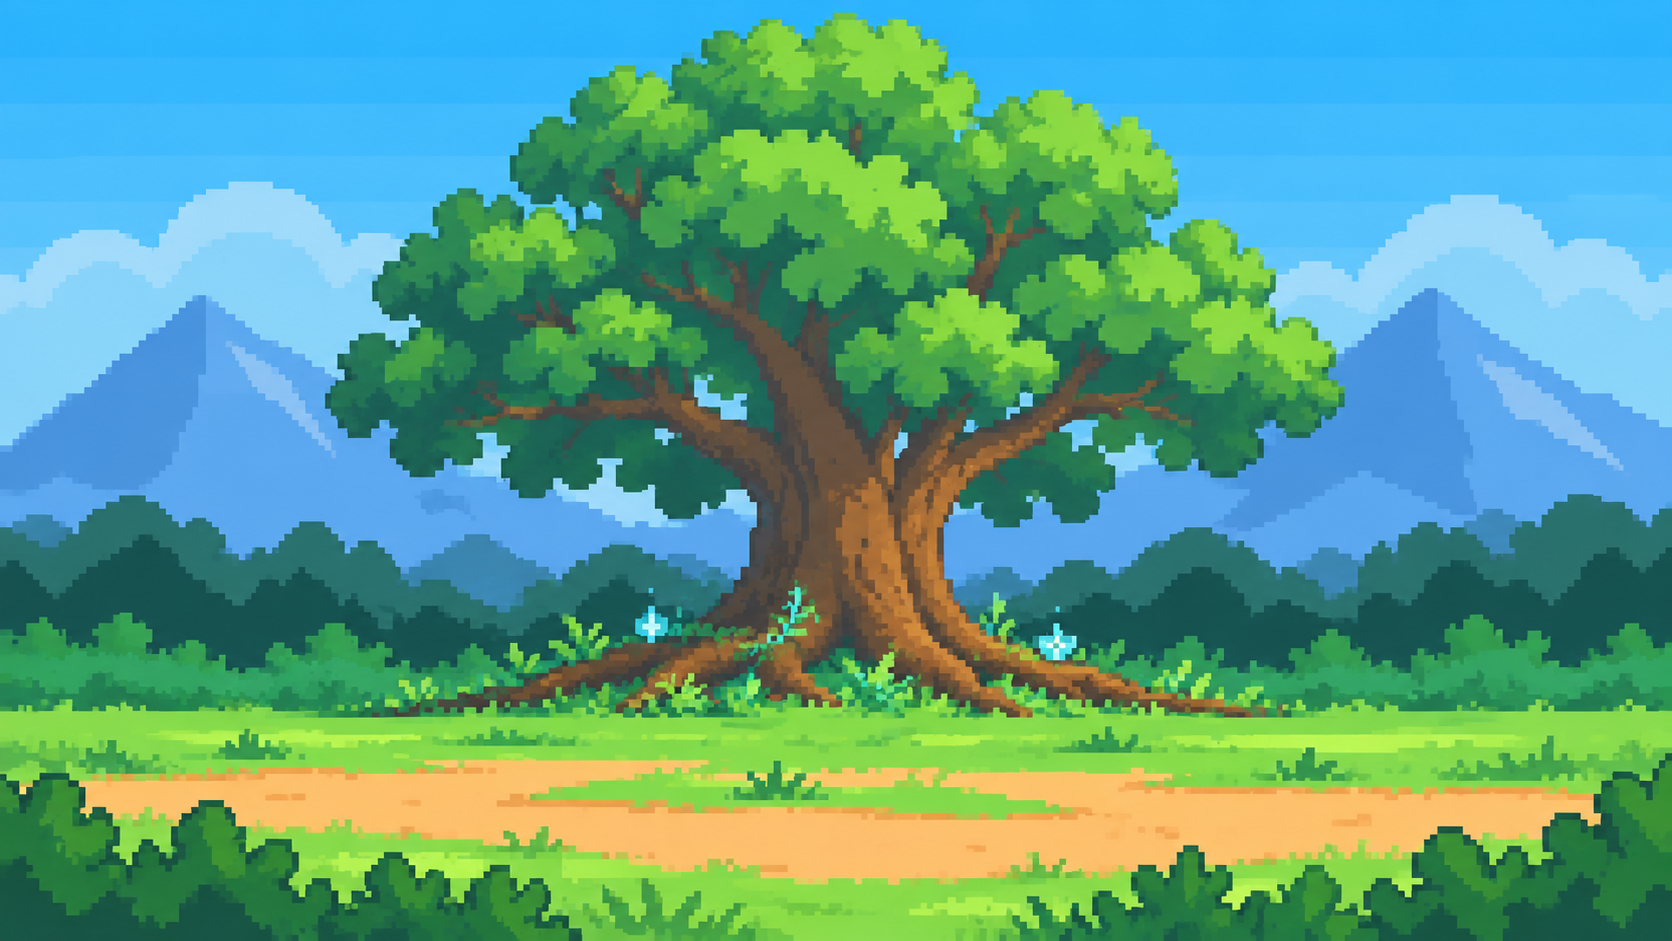
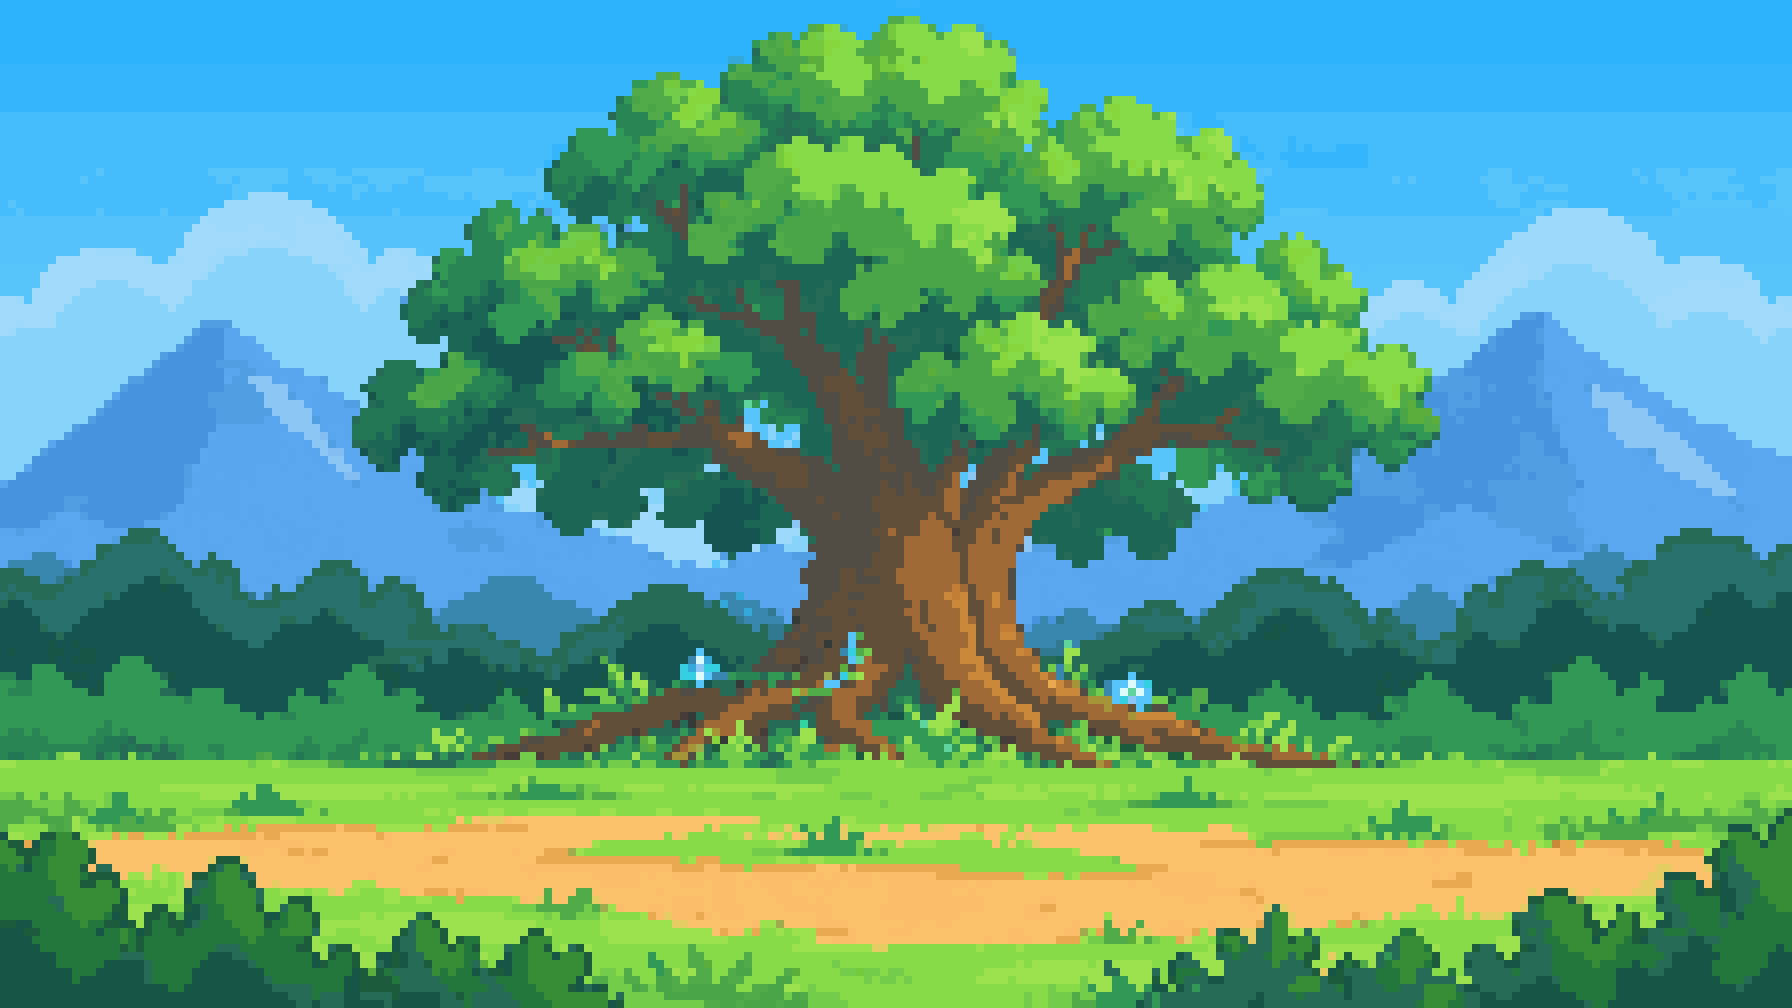
fix: 격자 없는 배경 8장을 픽셀 격자에 맞춤, 대화 배경 비율 유지
스토리·타이틀·엔딩 배경 6장, 2부 맵, 평원 전투 배경은 색이 859~25만 개이고
픽셀 크기가 제각각이었다. 원본 배경과 같은 격자로 다시 그리고, 크기가 바뀐
그림은 spritePixelsToUnits 를 고쳐 화면 크기를 유지한다. 대화 배경 창은
2:1 그림을 16:9 로 늘리지 않고 AspectRatioFitter 로 비율을 지킨다.

Refs #79

diff --git a/docs/design/pixel-grid/regrid_backgrounds.py b/docs/design/pixel-grid/regrid_backgrounds.py
@@ -1,0 +1,67 @@
+"""격자가 없는 배경 그림을 기존 픽셀 그림과 같은 격자로 다시 그린다.
+
+사용법: python3 docs/design/pixel-grid/regrid_backgrounds.py
+저장소 루트에서 실행한다. 그림 파일을 덮어쓰고, 크기가 바뀌는 그림은 .meta 의
+spritePixelsToUnits 를 고쳐서 화면에 그려지는 크기를 유지한다.
+"""
+import re
+from collections import Counter
+from pathlib import Path
+
+from PIL import Image
+
+ROOT = Path.cwd()
+
+# (경로, 격자 해상도, 확대 배율, 색 수)
+# - 전투 배경은 원본(고원, 해안, 빗길)과 같이 256×128 격자를 4배로 키운다.
+# - 맵은 1부 맵(Stage1BG)과 같이 384×256 격자를 4배로 키운다.
+# - 화면을 채우는 스토리·타이틀·엔딩 배경은 화면 높이에 격자 126칸이 오게 한다.
+#   전투 배경이 화면 높이에 128칸 남짓 보이는 것과 픽셀 크기를 맞춘다.
+TARGETS = [
+    ("Assets/Art/Tutorial/PlainBackground.png", (256, 128), 4, 32),
+    ("Assets/Art/Map/ActTwoMap.png", (384, 256), 4, 64),
+    ("Assets/Art/Story/MountainHome.png", (224, 126), 8, 64),
+    ("Assets/Art/Story/MountainHomeAttack.png", (224, 126), 8, 64),
+    ("Assets/Art/Story/MountainHomeMemorial.png", (224, 126), 8, 64),
+    ("Assets/Art/Story/MountainHomeRuins.png", (224, 126), 8, 64),
+    ("Assets/Art/Story/WorldTreeEpilogue.png", (224, 126), 8, 64),
+    ("Assets/Art/Title/MountainValley.png", (224, 126), 8, 64),
+]
+
+
+def regrid(path: Path, grid: tuple, scale: int, colors: int) -> None:
+    source = Image.open(path).convert("RGB")
+    old_width = source.width
+    # 평균색으로 줄이면 윤곽선과 작은 강조색이 주변색에 섞여 탁해진다. 원본 크기에서 먼저 색을 줄이고,
+    # 격자 한 칸마다 가장 많이 쓰인 색을 고른다.
+    indexed = source.quantize(colors=colors, method=Image.Quantize.FASTOCTREE, dither=Image.Dither.NONE)
+    palette = indexed.getpalette()
+    pixels = indexed.load()
+    small = Image.new("RGB", grid)
+    for gy in range(grid[1]):
+        y0, y1 = gy * source.height // grid[1], (gy + 1) * source.height // grid[1]
+        for gx in range(grid[0]):
+            x0, x1 = gx * source.width // grid[0], (gx + 1) * source.width // grid[0]
+            counts = Counter(pixels[x, y] for y in range(y0, y1) for x in range(x0, x1))
+            index = counts.most_common(1)[0][0]
+            small.putpixel((gx, gy), tuple(palette[index * 3:index * 3 + 3]))
+    result = small.resize((grid[0] * scale, grid[1] * scale), Image.NEAREST)
+    result.save(path)
+
+    if result.width != old_width:
+        meta = path.with_name(path.name + ".meta")
+        text = meta.read_text(encoding="utf-8")
+        old_ppu = float(re.search(r"spritePixelsToUnits: ([\d.]+)", text).group(1))
+        new_ppu = old_ppu * result.width / old_width
+        text = re.sub(r"spritePixelsToUnits: [\d.]+", "spritePixelsToUnits: %.8g" % new_ppu, text)
+        meta.write_text(text, encoding="utf-8")
+
+
+def main() -> None:
+    for relative, grid, scale, colors in TARGETS:
+        regrid(ROOT / relative, grid, scale, colors)
+        print(relative, grid, "x%d" % scale)
+
+
+if __name__ == "__main__":
+    main()

diff --git a/Assets/Scripts/Story/StageDialogueView.cs b/Assets/Scripts/Story/StageDialogueView.cs
@@ -73,6 +73,10 @@ namespace Story
             {
                 Image backdrop = DialogueWindowPresentation.Picture("Backdrop", transform, Vector2.zero, Vector2.one, Color.white);
                 backdrop.sprite = chapter.background;
+                // 2:1 전투 배경을 화면 비율로 늘리면 픽셀이 세로로 길어진다. 비율을 지킨 채 화면을 덮고 넘치는 좌우는 잘린다.
+                var fitter = backdrop.gameObject.AddComponent<AspectRatioFitter>();
+                fitter.aspectMode = AspectRatioFitter.AspectMode.EnvelopeParent;
+                fitter.aspectRatio = chapter.background.rect.width / chapter.background.rect.height;
             }
             Image shade = DialogueWindowPresentation.Picture("Shade", transform, Vector2.zero, Vector2.one,
                 new Color(0.04f, 0.03f, 0.09f, 0.35f));
